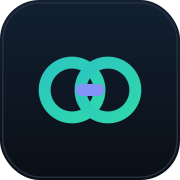
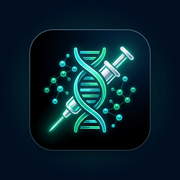
feat(branding): novo icone personalizado com DNA, agulha e peptideos v1.6.0

diff --git a/index.html b/index.html
@@ -41,7 +41,7 @@
     <section class="view on" id="view-today">
       <!-- Banner Informativo / Feedback -->
       <div class="dash-banner" id="dash-banner">
-        <a href="mailto:lguscouto@gmail.com?subject=Protocolo%20PEP%20%E2%80%94%20Sugest%C3%A3o%20%2F%20Feedback&body=Ol%C3%A1%2C%0A%0AGostaria%20de%20enviar%20o%20seguinte%20feedback%20%2F%20sugest%C3%A3o%20para%20o%20Protocolo%20PEP%3A%0A%0A%0A---%0AVers%C3%A3o%20do%20App%3A%201.5.0%0ADispositivo%3A%20Android" class="dash-banner-content" id="dash-banner-link" target="_blank" rel="noopener noreferrer" title="Toque para enviar sugestões ou feedback por e-mail" aria-label="Enviar sugestão ou feedback por e-mail">
+        <a href="mailto:lguscouto@gmail.com?subject=Protocolo%20PEP%20%E2%80%94%20Sugest%C3%A3o%20%2F%20Feedback&body=Ol%C3%A1%2C%0A%0AGostaria%20de%20enviar%20o%20seguinte%20feedback%20%2F%20sugest%C3%A3o%20para%20o%20Protocolo%20PEP%3A%0A%0A%0A---%0AVers%C3%A3o%20do%20App%3A%201.6.0%0ADispositivo%3A%20Android" class="dash-banner-content" id="dash-banner-link" target="_blank" rel="noopener noreferrer" title="Toque para enviar sugestões ou feedback por e-mail" aria-label="Enviar sugestão ou feedback por e-mail">
           <span class="dash-banner-icon">📢</span>
           <span class="dash-banner-text">Toda opinião importa! <b>Fale conosco ou envie sugestões</b></span>
         </a>
@@ -210,7 +210,7 @@
 
       <div class="panel">
         <div style="font-weight:700;font-family:var(--display);">Protocolo PEP Android</div>
-        <div style="font-size:12px;color:var(--muted);">Versão 1.5.0 · Local-First Edition</div>
+        <div style="font-size:12px;color:var(--muted);">Versão 1.6.0 · Local-First Edition</div>
       </div>
     </section>
   </main>

diff --git a/src/css/components.css b/src/css/components.css
@@ -24,6 +24,8 @@
 .brand .logo {
   width: 32px;
   height: 32px;
+  border-radius: 8px;
+  object-fit: cover;
   flex: none;
 }
 

diff --git a/README.md b/README.md
@@ -1,6 +1,6 @@
 # 🧪 Protocolo PEP · App Android (Local-First)
 
-![Version](https://img.shields.io/badge/version-1.5.0-2CC5C0)
+![Version](https://img.shields.io/badge/version-1.6.0-2CC5C0)
 ![Android](https://img.shields.io/badge/Android-8.0%2B-green)
 ![License](https://img.shields.io/badge/license-MIT-blue)
 ![CI](https://github.com/lguscouto/protocolopep.github.io/actions/workflows/ci.yml/badge.svg)
@@ -9,7 +9,16 @@ Aplicativo Android nativo para acompanhamento de protocolos de peptídeos, cálc
 
 ---
 
-## 🚀 Novidades da Versão 1.5.0
+## 🚀 Novidades da Versão 1.6.0
+
+- **Novo Ícone de Aplicativo Personalizado:** Identidade visual moderna e exclusiva combinando a **dupla hélice de DNA**, a precisão de uma **microsseringa platinada** e **esferas de ligações peptídicas** brilhantes em ciano/esmeralda (`#2CC5C0`) sobre fundo escuro OLED (`#080C11`).
+- **Suporte Completo a Ícones Adaptativos do Android:** Assets gerados com interpolação Lanczos para todas as densidades de tela (`mdpi`, `hdpi`, `xhdpi`, `xxhdpi`, `xxxhdpi`) com zona de segurança perfeitamente enquadrada.
+- **Logotipo e Branding no Cabeçalho:** O cabeçalho superior do app agora integra o novo ícone estilizado com cantos arredondados suaves (`border-radius: 8px`), harmonizando com a interface do Dashboard.
+- **Assets Web & PWA de Alta Resolução:** Atualização de `icon-180.png`, `icon-192.png` e `icon-512.png`.
+
+---
+
+## 🚀 Novidades Anteriores (Versão 1.5.0)
 
 - **Canal Direto de Feedback & Sugestões:** O card de destaque do Dashboard (*"📢 Toda opinião importa! Fale conosco ou envie sugestões"*) agora é clicável e integrado com o aplicativo de e-mail padrão do Android (Gmail / cliente nativo), disparando a composição direta para `lguscouto@gmail.com`.
 - **Preenchimento Inteligente de E-mail:** Assunto e corpo do e-mail são automaticamente estruturados com campos para a mensagem do usuário e identificação da versão (`v1.5.0 · Android`).
